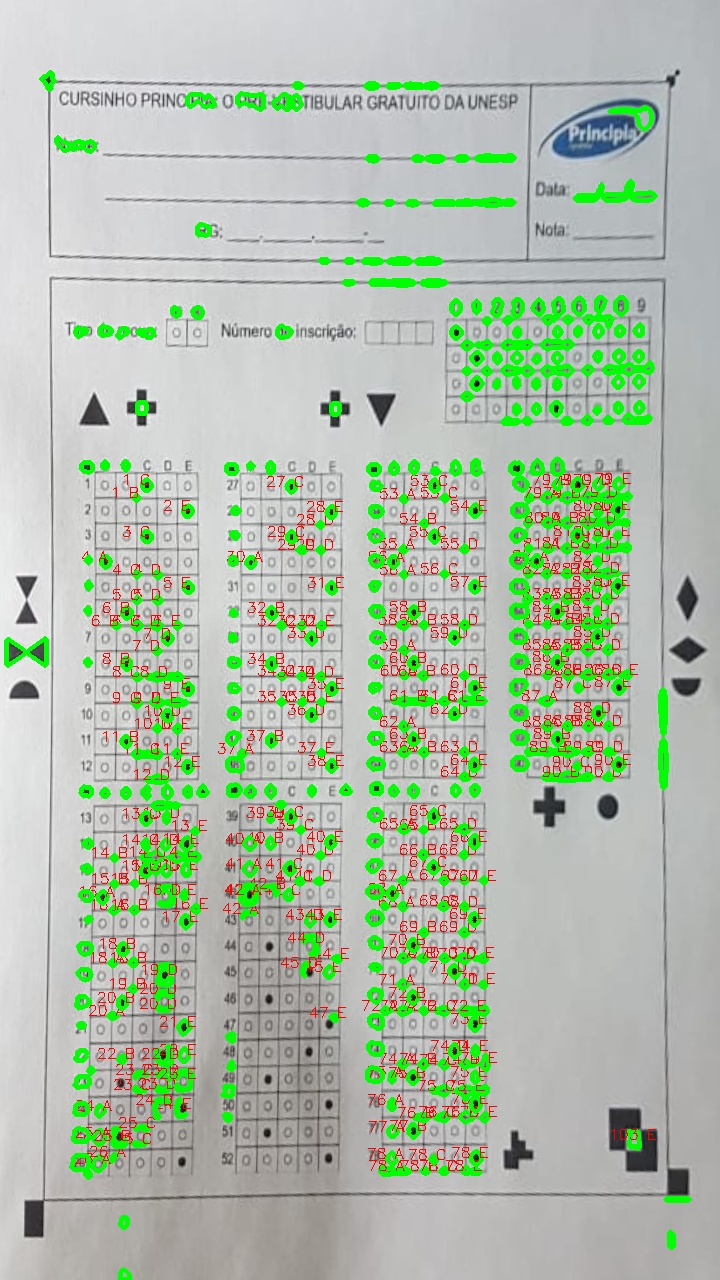
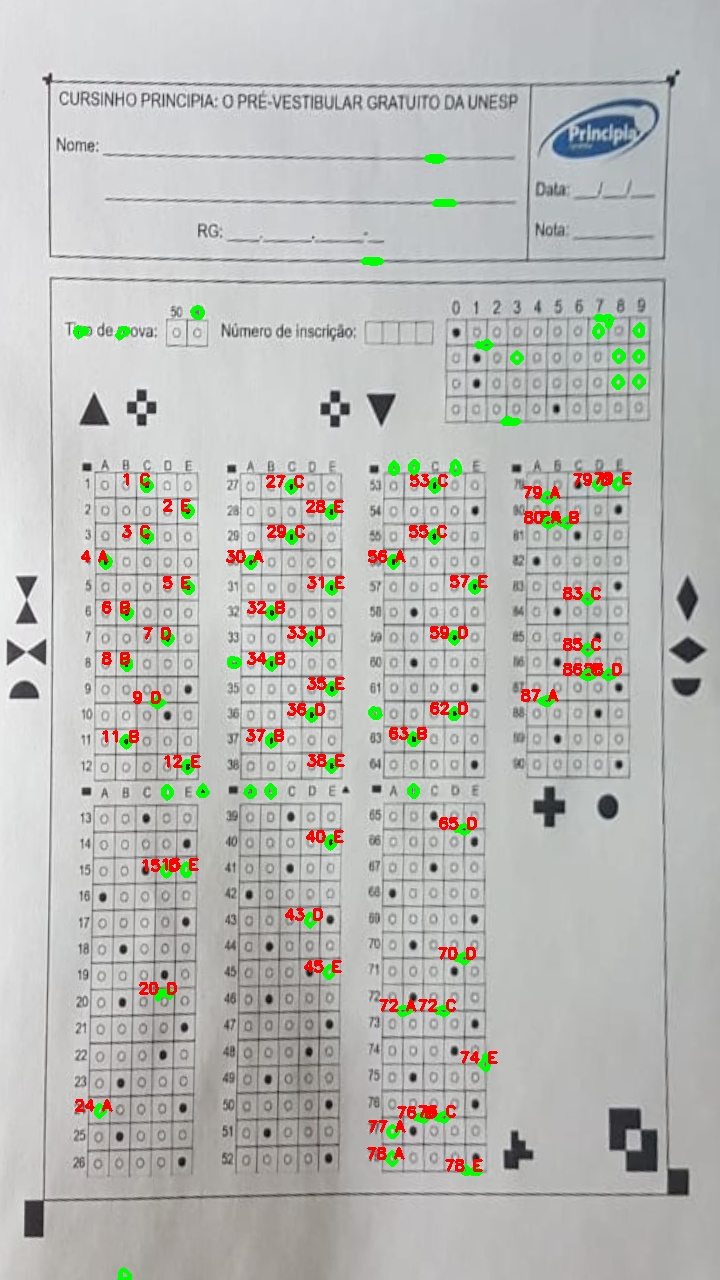
Visualizaçao dos macthes

diff --git a/Image.py b/Image.py
@@ -36,8 +36,8 @@ class Image:
         matches = matches[:numGoodMatches]
 
         # Draw top matches
-        # imMatches = cv2.drawMatches(im1, keypoints1, im2, keypoints2, matches, None)
-        # cv2.imwrite("matches.jpeg", imMatches)
+        imMatches = cv2.drawMatches(im1Gray, keypoints1, im2Gray, keypoints2, matches, None)
+        cv2.imwrite("matches.jpeg", imMatches)
         
         # Extract location of good matches
         points1 = np.zeros((len(matches), 2), dtype=np.float32)
@@ -53,6 +53,7 @@ class Image:
         # Use homography
         height, width, channels = self.base.shape
         aligned_image = cv2.warpPerspective(gabarito_image, h, (width, height))
+        #cv2.imwrite('alinhada.jpeg', aligned_image)
         
         return aligned_image
 
